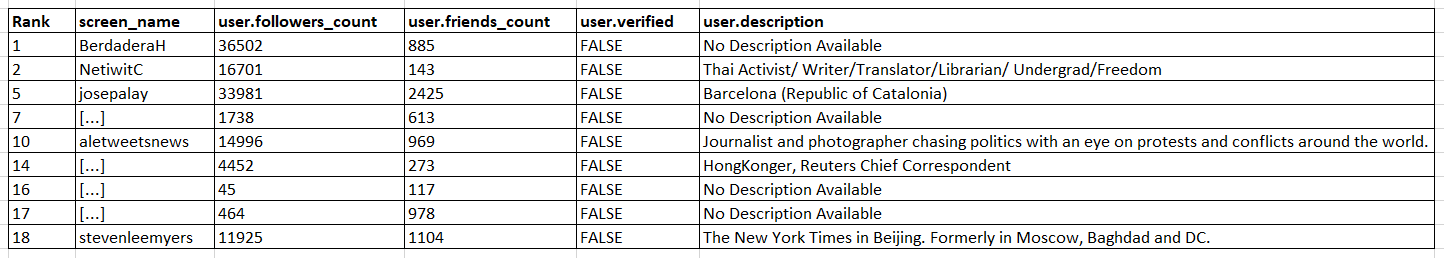
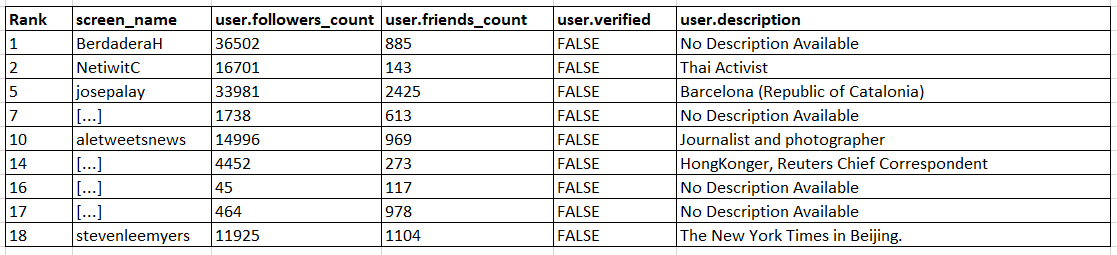
Adjusted Images

Changed region(s): [[0.0, 0.0, 1.0, 0.9882]]

diff --git a/Projects/TwitterCritNodes/TwitterCritNodes_1.html b/Projects/TwitterCritNodes/TwitterCritNodes_1.html
@@ -170,7 +170,7 @@
  			The below table shows some of the identified nodes along with other user details <br>
 
  			<div class="row">
- 				<img src="Fig2.PNG" class="center-block" alt="Example2">
+ 				<img src="Fig_NoSeedSetContext_VerifiedUsers.PNG" class="center-block" alt="Example2">
  			</div>
 
  			Opinion: Note that, barring 1, all of these accounts are verified. This means that if I was Twitter and trying to minimize the spread of misinformation, I would not be too worried about these accounts tweeting out incorrect information (unless they had a vested interest in doing so - see observation 3).
@@ -182,7 +182,7 @@
  			
 
  			<div class="row">
- 				<img src="Fig3.PNG" class="center-block" alt="Example3">
+ 				<img src="Fig_NoSeedSetContext_UnVerifiedUsers.PNG" class="center-block" alt="Example3">
  			</div>
 
  			Opinion: If I were Twitter, and trying to minimize the spread of (mis)information in the network, these would be the accounts that I would be paying closer attention to. The fact that these are unverified and seem like accounts belonging to normal users, these would be the accounts that would have a greater probability of being influenced by (mis)information and hence should be isolated from the influence of (mis)information or prevented from tweeting out (mis)information when they eventually are exposed to any. These nodes are central to preventing the spread of (mis)information.
